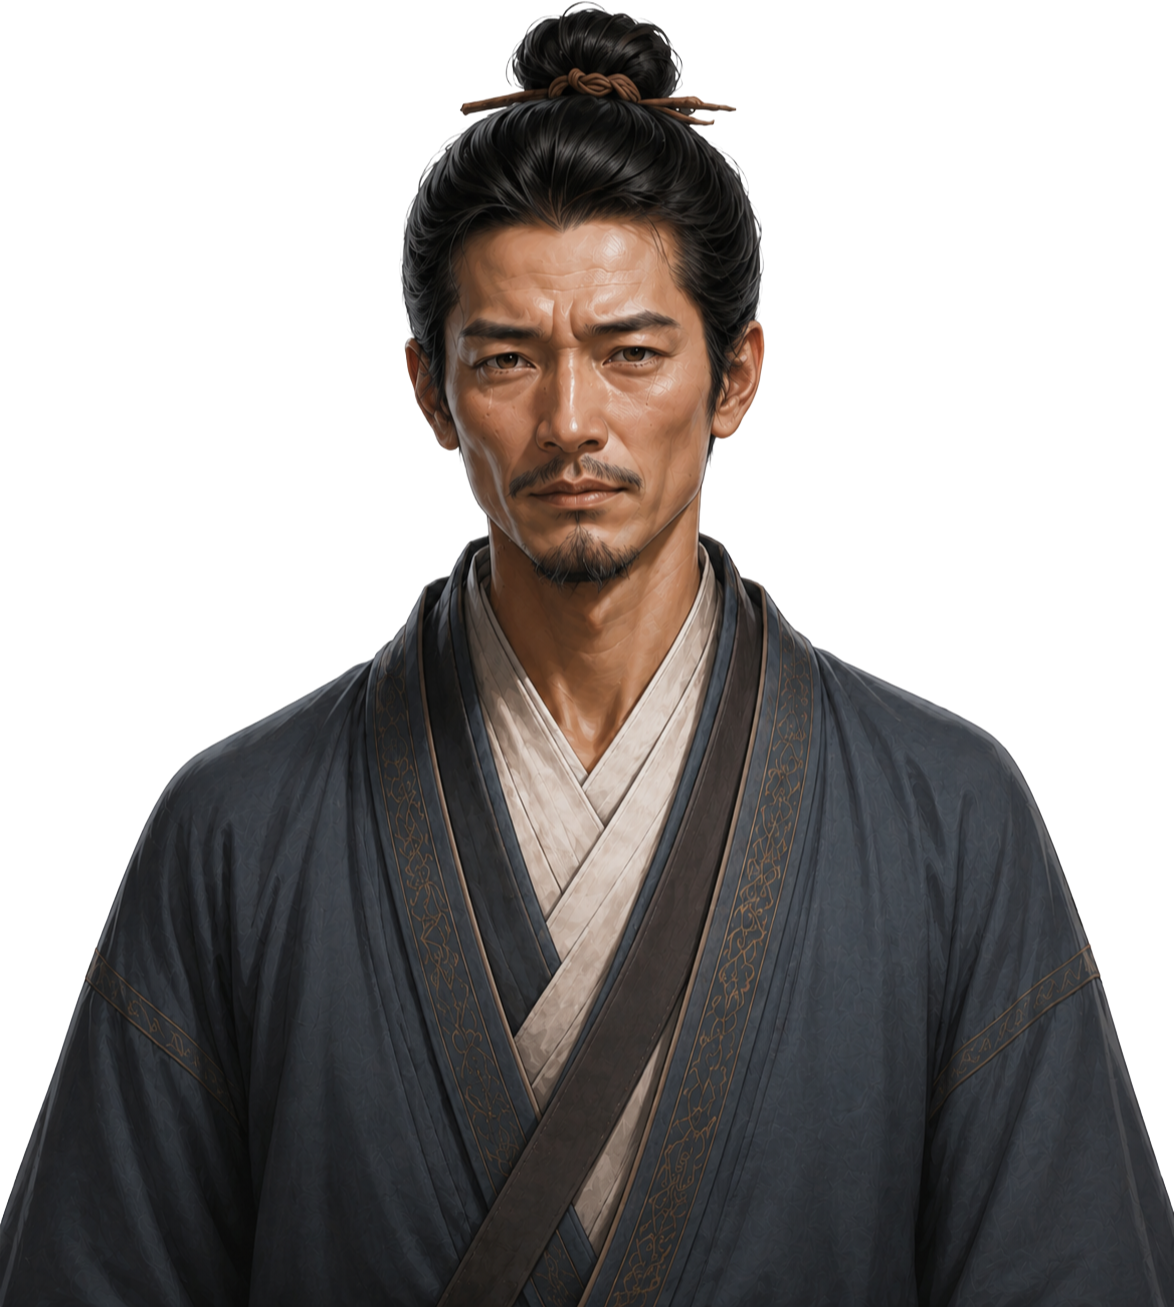
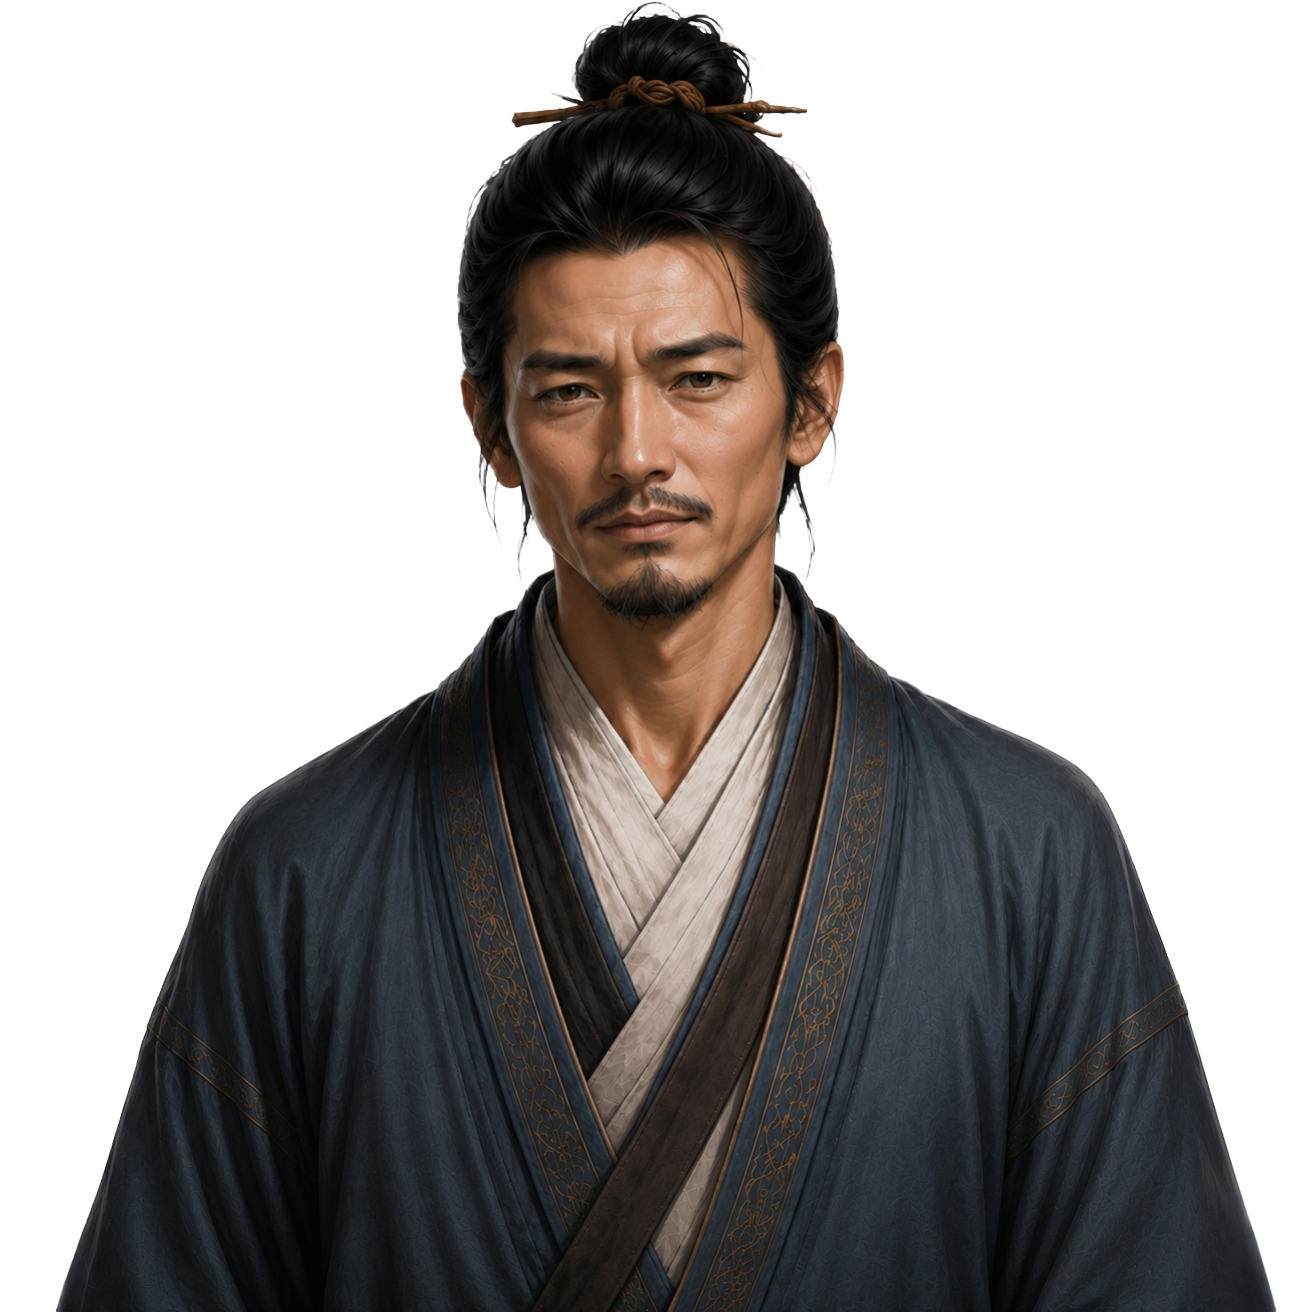
三批场景图接入(雨天全套+天空补齐)+半身1:1替换+书童入院回退半身
1. 入院页书童全身图纯黑底+黑发像素无边界自动抠必伤发(实测26%误抠)——回退半身smile，待明明重导透明底全身
2. 书童引导立绘上移(叠28→14px)
3. 22张半身立绘全量替换为明明重生成的1:1抠好版
4. 三批场景图：院堂雨天拆早/午后/夜三态；街市补morning+雨夜+市井/虹桥雨变体；
   书房补书架雨+初遇雨天版(按当日天气动态选)；花园竹石雨；膳堂afternoon+雨+灶间雨；
   activityBackgrounds改四态(day/night/rainy/rainyNight)带rainy参数；
   天空补noon/night/雨夜/彩虹——晚间转场启用(日入·暮色四合)，雨歇初晴日头个转场出彩虹(雨过天青·虹见檐角)

build✅ 测试86/0 引用校验全通过

Changed region(s): [[0.0, 0.0, 1.0, 1.0]]

diff --git a/workspaces/danqingyuan-mvp/src/content/activityBackgrounds.ts b/workspaces/danqingyuan-mvp/src/content/activityBackgrounds.ts
@@ -1,44 +1,97 @@
 import type { GameState } from '../types';
 
 /**
- * 行动签 → 场景图替换（2026-07-07 自 MainGameScreen 抽出共享，明明："子场景配合行动签用，避免一直停留在一个bg单调"）。
+ * 行动签 → 场景图替换（2026-07-07 自 MainGameScreen 抽出共享；07-08 三批图补齐雨天变体）。
  * 两处使用：
- * - App.runAction：所有行动统一设/清 activityBg（practice/膳食等**不起场景**的行动也要换背景——2026-07-07 修"点行动签不弹场景"）；
+ * - App.runAction：所有行动统一设/清 activityBg（practice/膳食等**不起场景**的行动也要换背景）；
  * - MainGameScreen：LLM 场景进行中按 scene.action.activityId 取（场景优先级最高）。
  */
 export const sceneActivityBackgrounds: Record<string, string> = {
-  // 街市子场景（固定）
+  // 室内子场景（不分天气）
   teahouse: '/bg-teahouse.png',
   eve_tingqu: '/bg-washe-theater.png',
-  eve_nightmarket: '/bg-market-folk-night.png', // 夜市闲逛→市井夜景（街市晚间默认 market-night，点行动签才切 folk，2026-07-08 明明拍板）
-  // 书房子场景：查证/深查在书架间
-  library_research: '/bg-library-shelf.png',
-  library_deep_research: '/bg-library-shelf.png',
-  // 膳堂子场景：热食去灶间
-  meal_chuibing: '/bg-dining-stove.png',
-  meal_mantou: '/bg-dining-stove.png',
-  meal_botuo: '/bg-dining-stove.png',
 };
 
-/** 晚间读书类行动签 → 灯下书案图（不局限于一个行动签；白日仍用书房日景） */
+/** 晚间读书类行动签 → 灯下书案图（通用，不分天气；白日仍用书房日景） */
 const EVENING_STUDY_ACTIVITIES = new Set(['practice_read_treatise', 'practice_view_scrolls', 'practice_deep_study']);
 
-/** 昼夜双图子场景（2026-07-08 二批场景图）：按时段选 day/night 版 */
-const DAY_NIGHT_ACTIVITIES: Record<string, { day: string; night: string }> = {
-  practice_garden_observe: { day: '/bg-garden-bamboo-day.png', night: '/bg-garden-bamboo-night.png' },
-  practice_market_figure: { day: '/bg-market-folk-day.png', night: '/bg-market-folk-night.png' },
-  market_sketch: { day: '/bg-market-folk-day.png', night: '/bg-market-folk-night.png' },
-  meal_street: { day: '/bg-market-folk-day.png', night: '/bg-market-folk-night.png' },
-  practice_market_architecture: { day: '/bg-market-bridge-canal-day.png', night: '/bg-market-bridge-canal-night.png' },
+/** 昼/夜/雨四态子场景（2026-07-08 三批图）：按时段+天气选 */
+interface VariantSet {
+  day: string;
+  night: string;
+  /** 雨天日间（缺省回退 day） */
+  rainy?: string;
+  /** 雨天晚间（缺省回退 night） */
+  rainyNight?: string;
+}
+
+const VARIANT_ACTIVITIES: Record<string, VariantSet> = {
+  practice_garden_observe: {
+    day: '/bg-garden-bamboo-day.png',
+    night: '/bg-garden-bamboo-night.png',
+    rainy: '/bg-garden-bamboo-rainy.png',
+  },
+  practice_market_figure: {
+    day: '/bg-market-folk-day.png',
+    night: '/bg-market-folk-night.png',
+    rainy: '/bg-market-folk-rainy.png',
+    rainyNight: '/bg-market-folk-rainy-night.png',
+  },
+  market_sketch: {
+    day: '/bg-market-folk-day.png',
+    night: '/bg-market-folk-night.png',
+    rainy: '/bg-market-folk-rainy.png',
+    rainyNight: '/bg-market-folk-rainy-night.png',
+  },
+  meal_street: {
+    day: '/bg-market-folk-day.png',
+    night: '/bg-market-folk-night.png',
+    rainy: '/bg-market-folk-rainy.png',
+    rainyNight: '/bg-market-folk-rainy-night.png',
+  },
+  practice_market_architecture: {
+    day: '/bg-market-bridge-canal-day.png',
+    night: '/bg-market-bridge-canal-night.png',
+    rainy: '/bg-market-bridge-canal-rainy.png',
+    rainyNight: '/bg-market-bridge-canal-rainy-night.png',
+  },
+  // 夜市闲逛→市井夜景（街市晚间默认 market-night，点行动签才切 folk，2026-07-08 明明拍板）
+  eve_nightmarket: {
+    day: '/bg-market-folk-night.png',
+    night: '/bg-market-folk-night.png',
+    rainyNight: '/bg-market-folk-rainy-night.png',
+  },
+  // 书房查证/深查在书架间
+  library_research: {
+    day: '/bg-library-shelf.png',
+    night: '/bg-library-shelf.png',
+    rainy: '/bg-library-shelf-rainy.png',
+  },
+  library_deep_research: {
+    day: '/bg-library-shelf.png',
+    night: '/bg-library-shelf.png',
+    rainy: '/bg-library-shelf-rainy.png',
+  },
+  // 膳堂热食去灶间
+  meal_chuibing: { day: '/bg-dining-stove.png', night: '/bg-dining-stove.png', rainy: '/bg-dining-stove-rainy.png' },
+  meal_mantou: { day: '/bg-dining-stove.png', night: '/bg-dining-stove.png', rainy: '/bg-dining-stove-rainy.png' },
+  meal_botuo: { day: '/bg-dining-stove.png', night: '/bg-dining-stove.png', rainy: '/bg-dining-stove-rainy.png' },
 };
 
-export function activityBackground(activityId: string, timeSlot: GameState['time']['timeSlot']): string | undefined {
+export function activityBackground(
+  activityId: string,
+  timeSlot: GameState['time']['timeSlot'],
+  rainy = false,
+): string | undefined {
   if (timeSlot === 'evening' && EVENING_STUDY_ACTIVITIES.has(activityId)) {
     return '/bg-library-desk-night.png';
   }
-  const dayNight = DAY_NIGHT_ACTIVITIES[activityId];
-  if (dayNight) {
-    return timeSlot === 'evening' ? dayNight.night : dayNight.day;
+  const set = VARIANT_ACTIVITIES[activityId];
+  if (set) {
+    if (timeSlot === 'evening') {
+      return rainy ? set.rainyNight ?? set.night : set.night;
+    }
+    return rainy ? set.rainy ?? set.day : set.day;
   }
   return sceneActivityBackgrounds[activityId];
 }

diff --git a/workspaces/danqingyuan-mvp/src/components/MainGameScreen.tsx b/workspaces/danqingyuan-mvp/src/components/MainGameScreen.tsx
@@ -169,7 +169,7 @@ const locationBackgrounds: Record<LocationId, string> = {
   hall: '/bg-main-hall-morning.png',
   library: '/bg-library-morning.png',
   garden: '/bg-garden-morning.png',
-  market: '/bg-market-day.png',
+  market: '/bg-market-morning.png',
   dining_hall: '/bg-dining-hall.png',
   dormitory: '/bg-dormitory-day.png',
   secret_archive: '/bg-archive-gate.png',
@@ -308,16 +308,16 @@ export function MainGameScreen({ state, actions, llmError, activityBg, settlemen
   const weather = getWeather(state.time.day, state.weatherWeek);
   const isRainy = isRainyWeather(weather);
   // 院堂五变体（2026-07-07 明明拍板）：晨课=morning / 晨课后上午(含午间)=afterclass / 午膳后回院堂=afternoon / 晚间=night / 雨天(日间)=rainy。
+  // 院堂（2026-07-08 三批图雨天补齐早/午后/夜三态）
   const hallVariant = isEveningBg
-    ? '/bg-main-hall-night.png'
+    ? (isRainy ? '/bg-main-hall-rainy-night.png' : '/bg-main-hall-night.png')
     : isRainy
-      ? '/bg-main-hall-rainy.png'
+      ? (state.time.timeSlot === 'afternoon' ? '/bg-main-hall-rainy-afternoon.png' : '/bg-main-hall-rainy-morning.png')
       : state.time.timeSlot === 'afternoon'
         ? '/bg-main-hall-afternoon.png'
         : state.time.timeSlot === 'forenoon' || state.time.timeSlot === 'noon'
           ? '/bg-main-hall-afterclass.png'
           : '/bg-main-hall-morning.png';
-  // 后花园：雨天有专属雨亭图（日/夜各一）；街市雨天日间用雨景。
   // 后花园：雨天雨亭(日/夜)；晴时晨/上午/午间=morning、下午=afternoon、晚=night（2026-07-08 明明拍板午间归 morning）
   const gardenVariant = isRainy
     ? isEveningBg
@@ -328,13 +328,20 @@ export function MainGameScreen({ state, actions, llmError, activityBg, settlemen
       : state.time.timeSlot === 'afternoon'
         ? '/bg-garden-afternoon.png'
         : '/bg-garden-morning.png';
+  // 街市：晨/上午/午间=morning、下午=afternoon；雨天日间=rainy、雨夜=rainy-night
   const marketVariant = isEveningBg
-    ? '/bg-market-night.png'
+    ? (isRainy ? '/bg-market-rainy-night.png' : '/bg-market-night.png')
     : isRainy
       ? '/bg-market-rainy.png'
       : state.time.timeSlot === 'afternoon'
         ? '/bg-market-afternoon.png'
-        : '/bg-market-day.png';
+        : '/bg-market-morning.png';
+  // 膳堂：雨天(日间)=rainy、下午=afternoon、其余=hall（无夜图，晚间沿用 hall）
+  const diningVariant = isRainy && !isEveningBg
+    ? '/bg-dining-rainy.png'
+    : state.time.timeSlot === 'afternoon'
+      ? '/bg-dining-afternoon.png'
+      : '/bg-dining-hall.png';
   // 书房：雨天(日间)=rainy；晴时晨/上午/午间=morning、下午=afternoon、晚=night
   const libraryVariant = isEveningBg
     ? '/bg-library-night.png'
@@ -344,7 +351,7 @@ export function MainGameScreen({ state, actions, llmError, activityBg, settlemen
         ? '/bg-library-afternoon.png'
         : '/bg-library-morning.png';
   const backgroundUrl =
-    (scene?.action.activityId && activityBackground(scene.action.activityId, state.time.timeSlot)) ||
+    (scene?.action.activityId && activityBackground(scene.action.activityId, state.time.timeSlot, isRainy)) ||
     activityBg ||
     (bgLocation === 'hall'
       ? hallVariant
@@ -352,11 +359,13 @@ export function MainGameScreen({ state, actions, llmError, activityBg, settlemen
         ? gardenVariant
         : bgLocation === 'market'
           ? marketVariant
-          : bgLocation === 'library'
-            ? libraryVariant
-            : bgLocation === 'dormitory'
-              ? (isEveningBg ? '/bg-dormitory-night.png' : '/bg-dormitory-day.png')
-              : locationBackgrounds[bgLocation]);
+          : bgLocation === 'dining_hall'
+            ? diningVariant
+            : bgLocation === 'library'
+              ? libraryVariant
+              : bgLocation === 'dormitory'
+                ? (isEveningBg ? '/bg-dormitory-night.png' : '/bg-dormitory-day.png')
+                : locationBackgrounds[bgLocation]);
 
   // VN 逐句呈现（2026-06-30）：当前显示单元 = segments[segIndex]；speaker 驱动立绘+说话人名。
   // 兜底：场景无 segments（旧数据/失败）时退回整段 latestSegment 当一个旁白单元。

diff --git a/workspaces/danqingyuan-mvp/src/app/App.tsx b/workspaces/danqingyuan-mvp/src/app/App.tsx
@@ -265,21 +265,27 @@ export function App() {
     const order: TimeSlot[] = ['morning_class', 'forenoon', 'noon', 'afternoon', 'evening'];
     const advanced = prev.day === cur.day && order.indexOf(cur.slot) > order.indexOf(prev.slot);
     if (!advanced) return;
-    if (cur.slot !== 'forenoon' && cur.slot !== 'noon' && cur.slot !== 'afternoon') return;
-    const rainy = isRainyWeather(getWeather(cur.day, state.weatherWeek));
-    const img = rainy
-      ? '/bg-sky-rain-day.png'
-      : cur.slot === 'forenoon'
-        ? '/bg-sky-morning-sunny.png'
-        : '/bg-sky-afternoon-sunny.png';
-    const caption =
-      cur.slot === 'forenoon'
-        ? (rainy ? '晨课毕 · 檐外雨声' : '晨课毕 · 日上三竿')
-        : cur.slot === 'noon'
-          ? (rainy ? '日过中天 · 雨未肯歇' : '日过中天 · 午间小憩')
-          : rainy
-            ? '午后 · 雨脚渐密'
-            : '午后 · 日影西斜';
+    if (cur.slot === 'morning_class') return;
+    const todayWeather = getWeather(cur.day, state.weatherWeek);
+    const rainy = isRainyWeather(todayWeather);
+    // 雨歇初晴日的头一个转场给彩虹（2026-07-08 三批天空图）
+    const rainbow = cur.slot === 'forenoon' && todayWeather.includes('雨歇');
+    let img: string;
+    let caption: string;
+    if (cur.slot === 'forenoon') {
+      img = rainbow ? '/bg-sky-rainbow.png' : rainy ? '/bg-sky-rain-day.png' : '/bg-sky-morning-sunny.png';
+      caption = rainbow ? '雨过天青 · 虹见檐角' : rainy ? '晨课毕 · 檐外雨声' : '晨课毕 · 日上三竿';
+    } else if (cur.slot === 'noon') {
+      img = rainy ? '/bg-sky-rain-day.png' : '/bg-sky-noon.png';
+      caption = rainy ? '日过中天 · 雨未肯歇' : '日过中天 · 午间小憩';
+    } else if (cur.slot === 'afternoon') {
+      img = rainy ? '/bg-sky-rain-day.png' : '/bg-sky-afternoon-sunny.png';
+      caption = rainy ? '午后 · 雨脚渐密' : '午后 · 日影西斜';
+    } else {
+      // evening（2026-07-08 夜空图补齐后启用）
+      img = rainy ? '/bg-sky-rainy-night.png' : '/bg-sky-night.png';
+      caption = rainy ? '暮雨未歇 · 掌灯时分' : '日入 · 暮色四合';
+    }
     setSkyTransition({ img, caption });
   }, [state?.time.day, state?.time.timeSlot]); // eslint-disable-line react-hooks/exhaustive-deps
 
@@ -1157,7 +1163,11 @@ export function App() {
     // 所有行动统一在此设/清——move_to/rest/sleep 等自然清掉上一签的背景。
     setActivityBg(
       action.type === 'activity' && action.activityId
-        ? activityBackground(action.activityId, base.time.timeSlot) ?? null
+        ? activityBackground(
+            action.activityId,
+            base.time.timeSlot,
+            isRainyWeather(getWeather(base.time.day, base.weatherWeek)),
+          ) ?? null
         : null,
     );
 

diff --git a/workspaces/danqingyuan-mvp/src/content/tutorialScripts.ts b/workspaces/danqingyuan-mvp/src/content/tutorialScripts.ts
@@ -1,4 +1,5 @@
 import type { GameState, LocationId, SkillId, TimeSlot } from '../types';
+import { getWeather, isRainyWeather } from '../engine/ambience';
 
 /**
  * 固定引导脚本池（拍板：引导对话用固定脚本，不走 LLM）。
@@ -159,7 +160,10 @@ export function getActiveGuideStep(state: GameState): GuideStep | null {
 
   // ③ 希孟书房首场（不再固定首次进书房触发：走进书房时引擎掷点，掷中才落 ximeng_in_library）
   if (state.currentLocation === 'library' && flags.ximeng_in_library && !flags.metXimeng) {
-    return { script: XIMENG_FIRST_MEET, flagsSet: { metXimeng: true, ximeng_in_library: false }, after: 'ximeng_chat' };
+    // 初遇场景图按当日天气选（2026-07-08 三批图补雨天版）
+    const rainy = isRainyWeather(getWeather(state.time.day, state.weatherWeek));
+    const script = rainy ? { ...XIMENG_FIRST_MEET, sceneImage: '/scene-ximeng-first-meet-rainy.png' } : XIMENG_FIRST_MEET;
+    return { script, flagsSet: { metXimeng: true, ximeng_in_library: false }, after: 'ximeng_chat' };
   }
 
   return null;

diff --git a/workspaces/danqingyuan-mvp/src/styles/app.css b/workspaces/danqingyuan-mvp/src/styles/app.css
@@ -1451,9 +1451,10 @@ button {
 
 .adm-transition-portrait {
   width: 200px;
-  height: 300px;
-  object-fit: contain; /* 全身像完整显示（2026-07-07 明明拍板入院页用全身）；图为黑底，待透明底版出后自然融卡面 */
-  object-position: center;
+  height: 280px;
+  /* 暂用半身（2026-07-08）：全身图纯黑底+黑发无法自动抠（像素无边界），待明明重导透明底版再换回全身 */
+  object-fit: cover;
+  object-position: top;
   border: 1px solid rgba(107, 90, 69, 0.4);
   background: #DCD0B4;
   flex-shrink: 0;
@@ -4048,7 +4049,7 @@ dd {
 .gd-portrait {
   position: absolute;
   left: 16px; /* 站在 .gd-box 顶上、靠框左端（2026-07-07 明明红框位置） */
-  bottom: calc(100% - 28px); /* 底部踩住框顶（叠 28px 吃掉图底透明留白，2026-07-07 再下移贴紧） */
+  bottom: calc(100% - 14px); /* 底部踩住框顶（叠 14px，2026-07-08 明明：再往上一点） */
   height: min(30vh, 230px);
   max-width: 20vw;
   object-fit: contain;

diff --git a/workspaces/danqingyuan-mvp/src/components/AdmissionTransition.tsx b/workspaces/danqingyuan-mvp/src/components/AdmissionTransition.tsx
@@ -10,7 +10,7 @@ export function AdmissionTransition({ text, onEnter }: AdmissionTransitionProps)
     <main className="adm-transition">
       <div className="adm-transition-bg" />
       <div className="adm-transition-card">
-        <img alt="小书童" className="adm-transition-portrait" src="/char/char-shutong-full-body.png" />
+        <img alt="小书童" className="adm-transition-portrait" src="/char/char-shutong-smile.png" />
         <div className="adm-transition-body">
           <h2 className="adm-transition-title">入院 · 小书童来迎</h2>
           {text ? (
